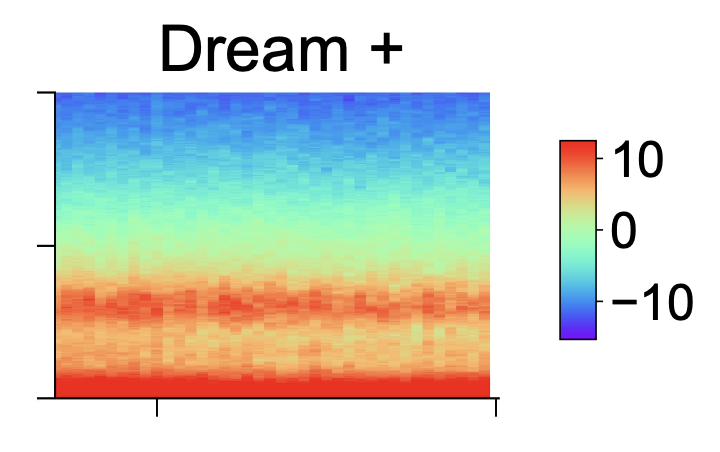
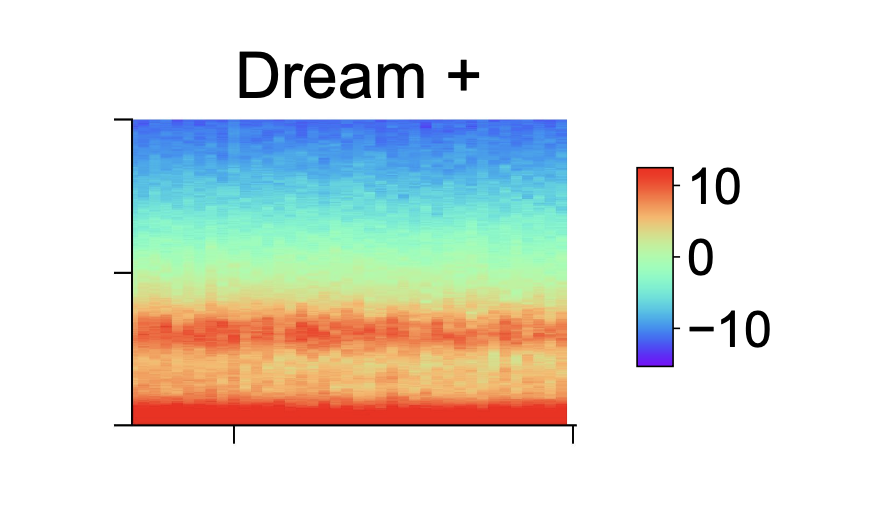
update

Changed region(s): [[0.0611, 0.031, 0.9778, 0.8982]]

diff --git a/index.html b/index.html
@@ -22,18 +22,18 @@
     color: var(--text);
     line-height: 1.6;
     font-size: 15px;
-    padding: 32px 12px 60px;
+    padding: 18px 12px 40px;
     display: flex;
     justify-content: center;
     overflow-x: hidden;
   }
 
   main {
-    max-width: 1200px;
+    max-width: 1400px;
     width: 100%;
     background: var(--card);
     border-radius: var(--radius);
-    padding: 36px 28px;
+    padding: 24px 24px;
     box-shadow: 0 6px 24px rgba(0,0,0,0.05);
   }
 
@@ -43,16 +43,16 @@
   align-items: center;
   gap: 32px;
 
-  margin: 0 0 36px;   /* ← remove negative margins entirely */
-  padding: 24px 0;    /* ← no horizontal padding */
+  margin: 0 0 20px;   /* ← remove negative margins entirely */
+  padding: 16px 0;    /* ← no horizontal padding */
 
   background: linear-gradient(135deg, #f2f2f2 0%, #d9d9d9 100%);
   box-shadow: 0 4px 16px rgba(0,0,0,0.1);
 }
 
   header img {
-    width: 140px;
-    height: 140px;
+    width: 110px;
+    height: 110px;
     border-radius: 50%;
     object-fit: cover;
     border: 3px solid rgba(255,255,255,0.8);
@@ -93,18 +93,24 @@
   }
 
   section {
-    margin-top: 2.2em;
+    margin-top: 1.2em;
   }
 
   /* --- GRID --- */
   .project-grid {
     display: grid;
-    grid-template-columns: repeat(3, 1fr);
-    gap: 20px;
-    margin-top: 1.5em;
+    grid-template-columns: repeat(4, 1fr);
+    gap: 14px;
+    margin-top: 1em;
   }
 
-  @media (max-width: 1000px) {
+  @media (max-width: 1150px) {
+    .project-grid {
+      grid-template-columns: repeat(3, 1fr);
+    }
+  }
+
+  @media (max-width: 850px) {
     .project-grid {
       grid-template-columns: repeat(2, 1fr);
     }
@@ -132,7 +138,7 @@
 
   .project-tile img {
     width: 100%;
-    height: 210px;
+    height: 165px;
     object-fit: cover;
     display: block;
     transition: transform 0.4s ease, opacity 0.4s ease;
@@ -166,7 +172,7 @@
 
   .title-bar h3 {
     margin: 0;
-    font-size: 1rem;
+    font-size: 0.92rem;
     color: #fff;
     text-shadow: 0 1px 3px rgba(0,0,0,0.6);
   }
@@ -192,13 +198,13 @@
   }
 
   .overlay p {
-    font-size: 0.9rem;
+    font-size: 0.82rem;
     margin: 0;
   }
 
   footer {
     text-align: center;
-    margin-top: 3em;
+    margin-top: 2em;
     color: var(--muted);
     font-size: 0.85rem;
   }
@@ -276,6 +282,12 @@
         </div>
         
         <div class="project-tile">
+          <img src="img/dream.png" alt="dreaming" />
+          <div class="title-bar"><h3>Inducing dreams with anesthesia</h3></div>
+          <div class="overlay"><p><a href="https://journals.lww.com/anesthesiology/abstract/10.1097/aln.0000000000005968~feasibility-of-a-multicomponent-protocol-to-promote-dreaming" style="color:#fff;text-decoration:underline;">Designing an EEG-guided anesthetic protocol that safely and reliably promotes positive dreaming during surgery.</a></p></div>
+        </div>
+
+        <div class="project-tile">
           <img src="img/dm.png" alt="dm" />
           <div class="title-bar"><h3>How AI agents become intelligent</h3></div>
           <div class="overlay"><p><a href="https://arxiv.org/abs/1905.13469" style="color:#fff;text-decoration:underline;">Characterizing how the cognitive strategies of AI agents compare to those observed in neuroscience (at Google DeepMind), published and presented at NeurIPS.</a></p></div>
@@ -294,15 +306,21 @@
         </div>
 
         <div class="project-tile">
-          <img src="img/gh.png" alt="gh" />
-          <div class="title-bar"><h3>Global clinical teaching</h3></div>
-          <div class="overlay"><p>Teaching clinical and research skills at partner hospitals in Guyana and other international sites, including with ASA Global Humanitarian Outreach, and piloting simulation tools for training and patient care in low-resource operating rooms.</p></div>
+          <img src="img/until.png" alt="until" />
+          <div class="title-bar"><h3>Reversible biostasis</h3></div>
+          <div class="overlay"><p><a href="https://www.untillabs.com/" style="color:#fff;text-decoration:underline;">Consultant on long-term reversible pausing of neural and physiologic function for organ protection.</a></p></div>
         </div>
 
         <div class="project-tile">
           <img src="img/consc.png" alt="conscious" />
           <div class="title-bar"><h3>Non-human and machine consciousness</h3></div>
           <div class="overlay"><p><a href="https://www.frontiersin.org/journals/human-neuroscience/articles/10.3389/fnhum.2023.1146242/full" style="color:#fff;text-decoration:underline;">Applying insights from neuroscience and clinical medicine to prepare for safe and ethical interactions with non-traditional consciousness.</a></p></div>
+        </div>
+
+        <div class="project-tile">
+          <img src="img/gh.png" alt="gh" />
+          <div class="title-bar"><h3>Global clinical teaching</h3></div>
+          <div class="overlay"><p><a href="https://globalhealth.stanford.edu/new-faculty-fellows/" style="color:#fff;text-decoration:underline;">Teaching clinical and research skills at partner hospitals in Guyana and other international sites, including with ASA Global Humanitarian Outreach, and piloting simulation tools for training and patient care in low-resource operating rooms.</a></p></div>
         </div>
         
         
@@ -314,7 +332,7 @@
         
         <div class="project-tile">
           <img src="img/opto.png" alt="opto" />
-          <div class="title-bar"><h3>Modeling and shaping memory and decisions</h3></div>
+          <div class="title-bar"><h3>Modeling and shaping memory</h3></div>
           <div class="overlay"><p><a href="https://pubmed.ncbi.nlm.nih.gov/31311934/" style="color:#fff;text-decoration:underline;">Quantifying how animals retain information in memory and use it to guide decisions, using measurement and perturbation of neural networks during learning and behavior.</a></p></div>
         </div>
         
@@ -333,7 +351,7 @@
         <div class="project-tile">
           <img src="img/dream2.png" alt="dream" />
           <div class="title-bar"><h3>Psychoactive medication trials</h3></div>
-          <div class="overlay"><p><a href="https://pubmed.ncbi.nlm.nih.gov/41632715/" style="color:#fff;text-decoration:underline;">Running clinical studies to test therapeutic applications of psychedelics and anesthetic medications for new purposes</a> (trials ongoing).</p></div>
+          <div class="overlay"><p><a href="https://www.tandfonline.com/doi/abs/10.1080/17581869.2026.2658080" style="color:#fff;text-decoration:underline;">Running clinical studies to test therapeutic applications of psychedelics and anesthetic medications for new purposes</a> (trials ongoing).</p></div>
         </div>
 
         <div class="project-tile">
